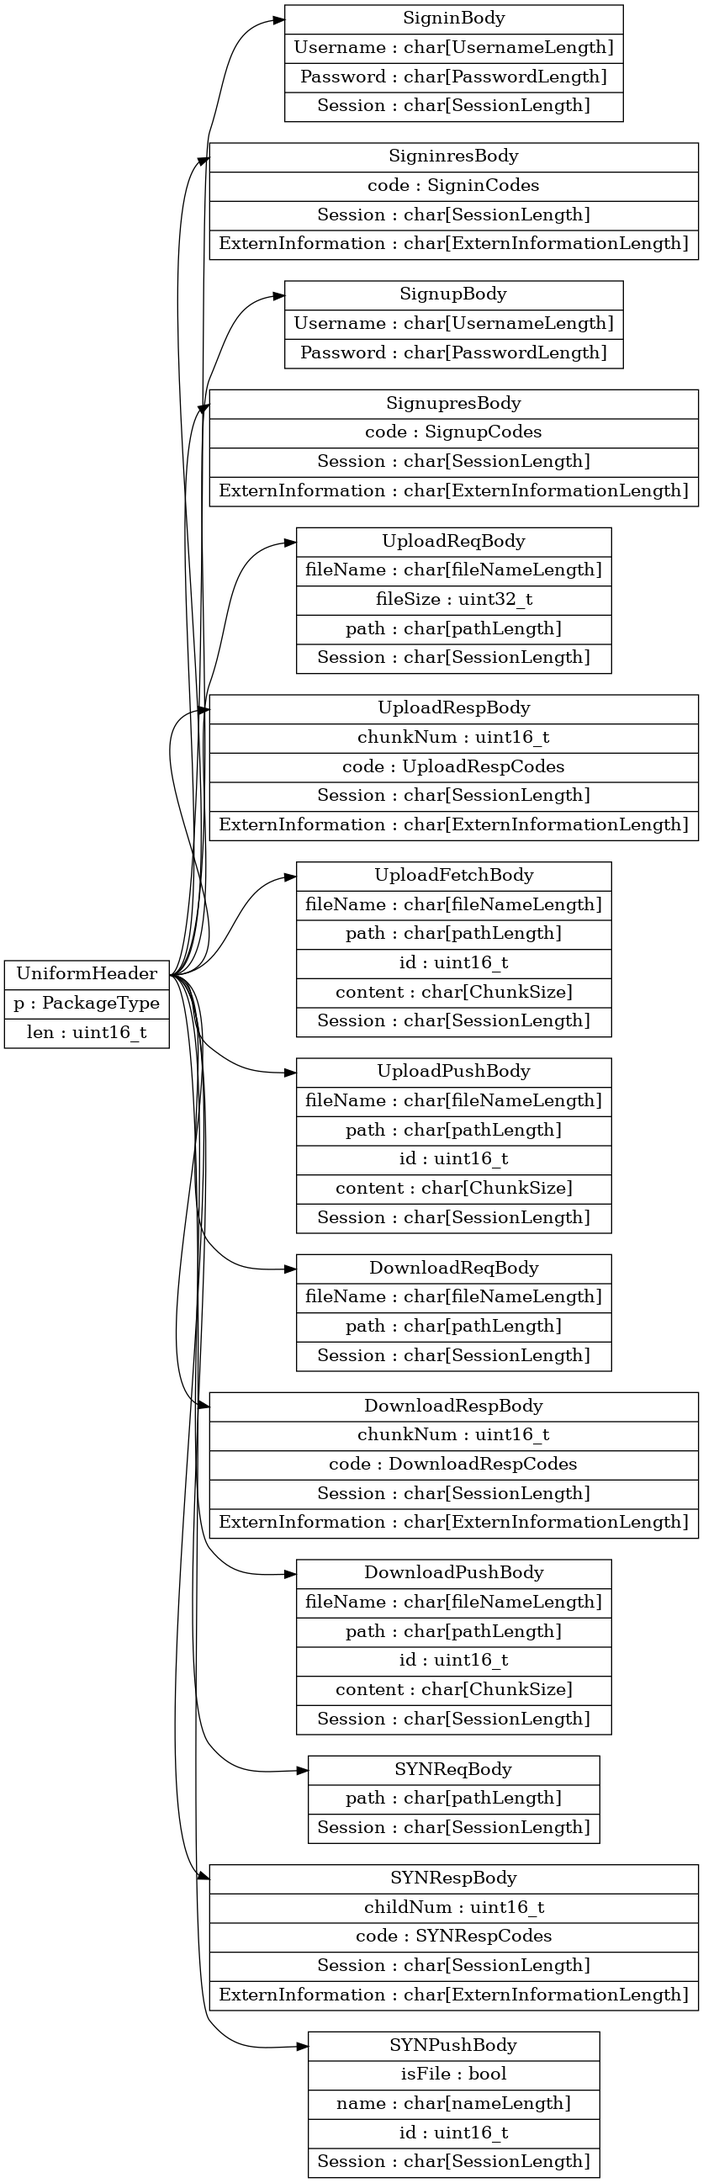
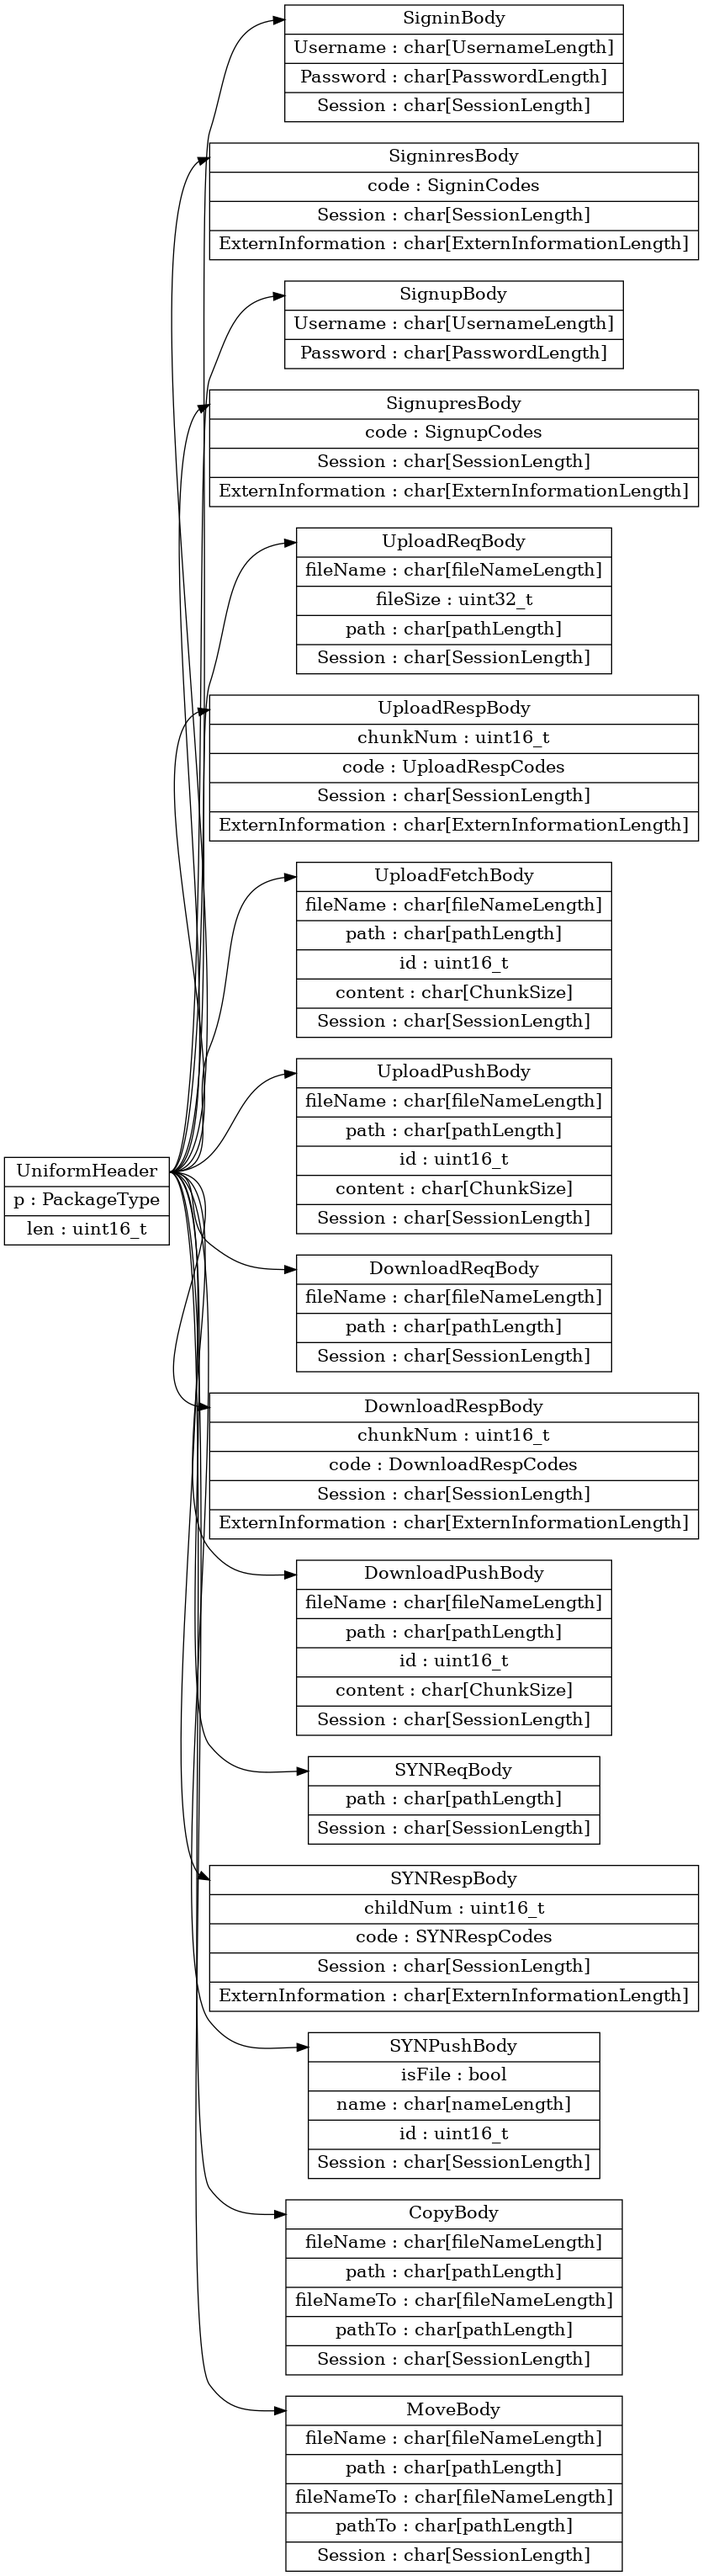
update

Changed region(s): [[0.0, 0.0, 0.9952, 0.9988], [0.933, 0.3746, 0.9641, 0.4058]]

diff --git a/project/Package/CopyBody.h b/project/Package/CopyBody.h
@@ -1,0 +1,11 @@
+#pragma once
+#include "Package.h" 
+
+struct CopyBody
+{
+    char fileName[fileNameLength];
+    char path[pathLength];
+    char fileNameTo[fileNameLength];
+    char pathTo[pathLength];
+    char Session[SessionLength];
+};

diff --git a/project/Package/MoveBody.h b/project/Package/MoveBody.h
@@ -1,0 +1,11 @@
+#pragma once
+#include "Package.h" 
+
+struct MoveBody
+{
+    char fileName[fileNameLength];
+    char path[pathLength];
+    char fileNameTo[fileNameLength];
+    char pathTo[pathLength];
+    char Session[SessionLength];
+};

diff --git a/project/Package/Package.h b/project/Package/Package.h
@@ -33,5 +33,8 @@ const uint16_t MD5Length = 64;
 #include "SYNRespBody.h" 
 #include "SYNPushBody.h"
 
+#include "MoveBody.h"
+#include "CopyBody.h"
+
 
 #include "UniformHeader.h"

diff --git a/report/CloudDriveDesign.md b/report/CloudDriveDesign.md
@@ -7,29 +7,28 @@
 
 <!-- code_chunk_output -->
 
-- [网盘功能的设计](#网盘功能的设计)
-  - [总体架构图](#总体架构图)
-    - [总架构图](#总架构图)
-    - [server端和Windows客户端的架构图](#server端和windows客户端的架构图)
-  - [数据库设计](#数据库设计)
-  - [储存方案设计](#储存方案设计)
-  - [用户目录设计](#用户目录设计)
-    - [概念](#概念)
-    - [设计](#设计)
-  - [通讯协议的设计](#通讯协议的设计)
-    - [概述](#概述)
-    - [设计框图](#设计框图)
-      - [类与类间关系](#类与类间关系)
-      - [解释说明](#解释说明)
-    - [使用方法](#使用方法)
-  - [Windows客户端 服务器的设计](#windows客户端-服务器的设计)
-    - [控制模块](#控制模块)
-    - [receiver 模块](#receiver-模块)
-      - [解释说明](#解释说明-1)
-    - [sender 模块](#sender-模块)
-      - [解释说明](#解释说明-2)
-    - [操作数据库模块](#操作数据库模块)
-    - [文件读写模块](#文件读写模块)
+- [总体架构图](#总体架构图)
+  - [总架构图](#总架构图)
+  - [server端和Windows客户端的架构图](#server端和windows客户端的架构图)
+- [数据库设计](#数据库设计)
+- [储存方案设计](#储存方案设计)
+- [用户目录设计](#用户目录设计)
+  - [概念](#概念)
+  - [设计](#设计)
+- [通讯协议的设计](#通讯协议的设计)
+  - [概述](#概述)
+  - [设计框图](#设计框图)
+    - [类与类间关系](#类与类间关系)
+    - [解释说明](#解释说明)
+  - [使用方法](#使用方法)
+- [`Windows客户端` 服务器的设计](#windows客户端-服务器的设计)
+  - [控制模块](#控制模块)
+  - [receiver 模块](#receiver-模块)
+    - [解释说明](#解释说明-1)
+  - [sender 模块](#sender-模块)
+    - [解释说明](#解释说明-2)
+  - [操作数据库模块](#操作数据库模块)
+  - [文件读写模块](#文件读写模块)
 
 <!-- /code_chunk_output -->
 
@@ -38,7 +37,6 @@
 ### 总架构图
 
 ![overall-framework](./img/overall-framework.png)
-
 
 
 ### server端和Windows客户端的架构图
@@ -156,6 +154,13 @@ data
 > 1. `UniformHeader` + `SYNReqBody` `C->S`
 > 2. `UniformHeader` + `SYNRespBody` `S->C`
 > 3. `UniformHeader` + `SYNPushBody` `S->C`
+
+- 复制文件
+> 1. `UniformHeader` + `CopyBody` `C->S`
+
+- 移动文件
+> 1. `UniformHeader` + `MoveBody` `C->S`
+
 
 ## `Windows客户端` 服务器的设计
 ### 控制模块
